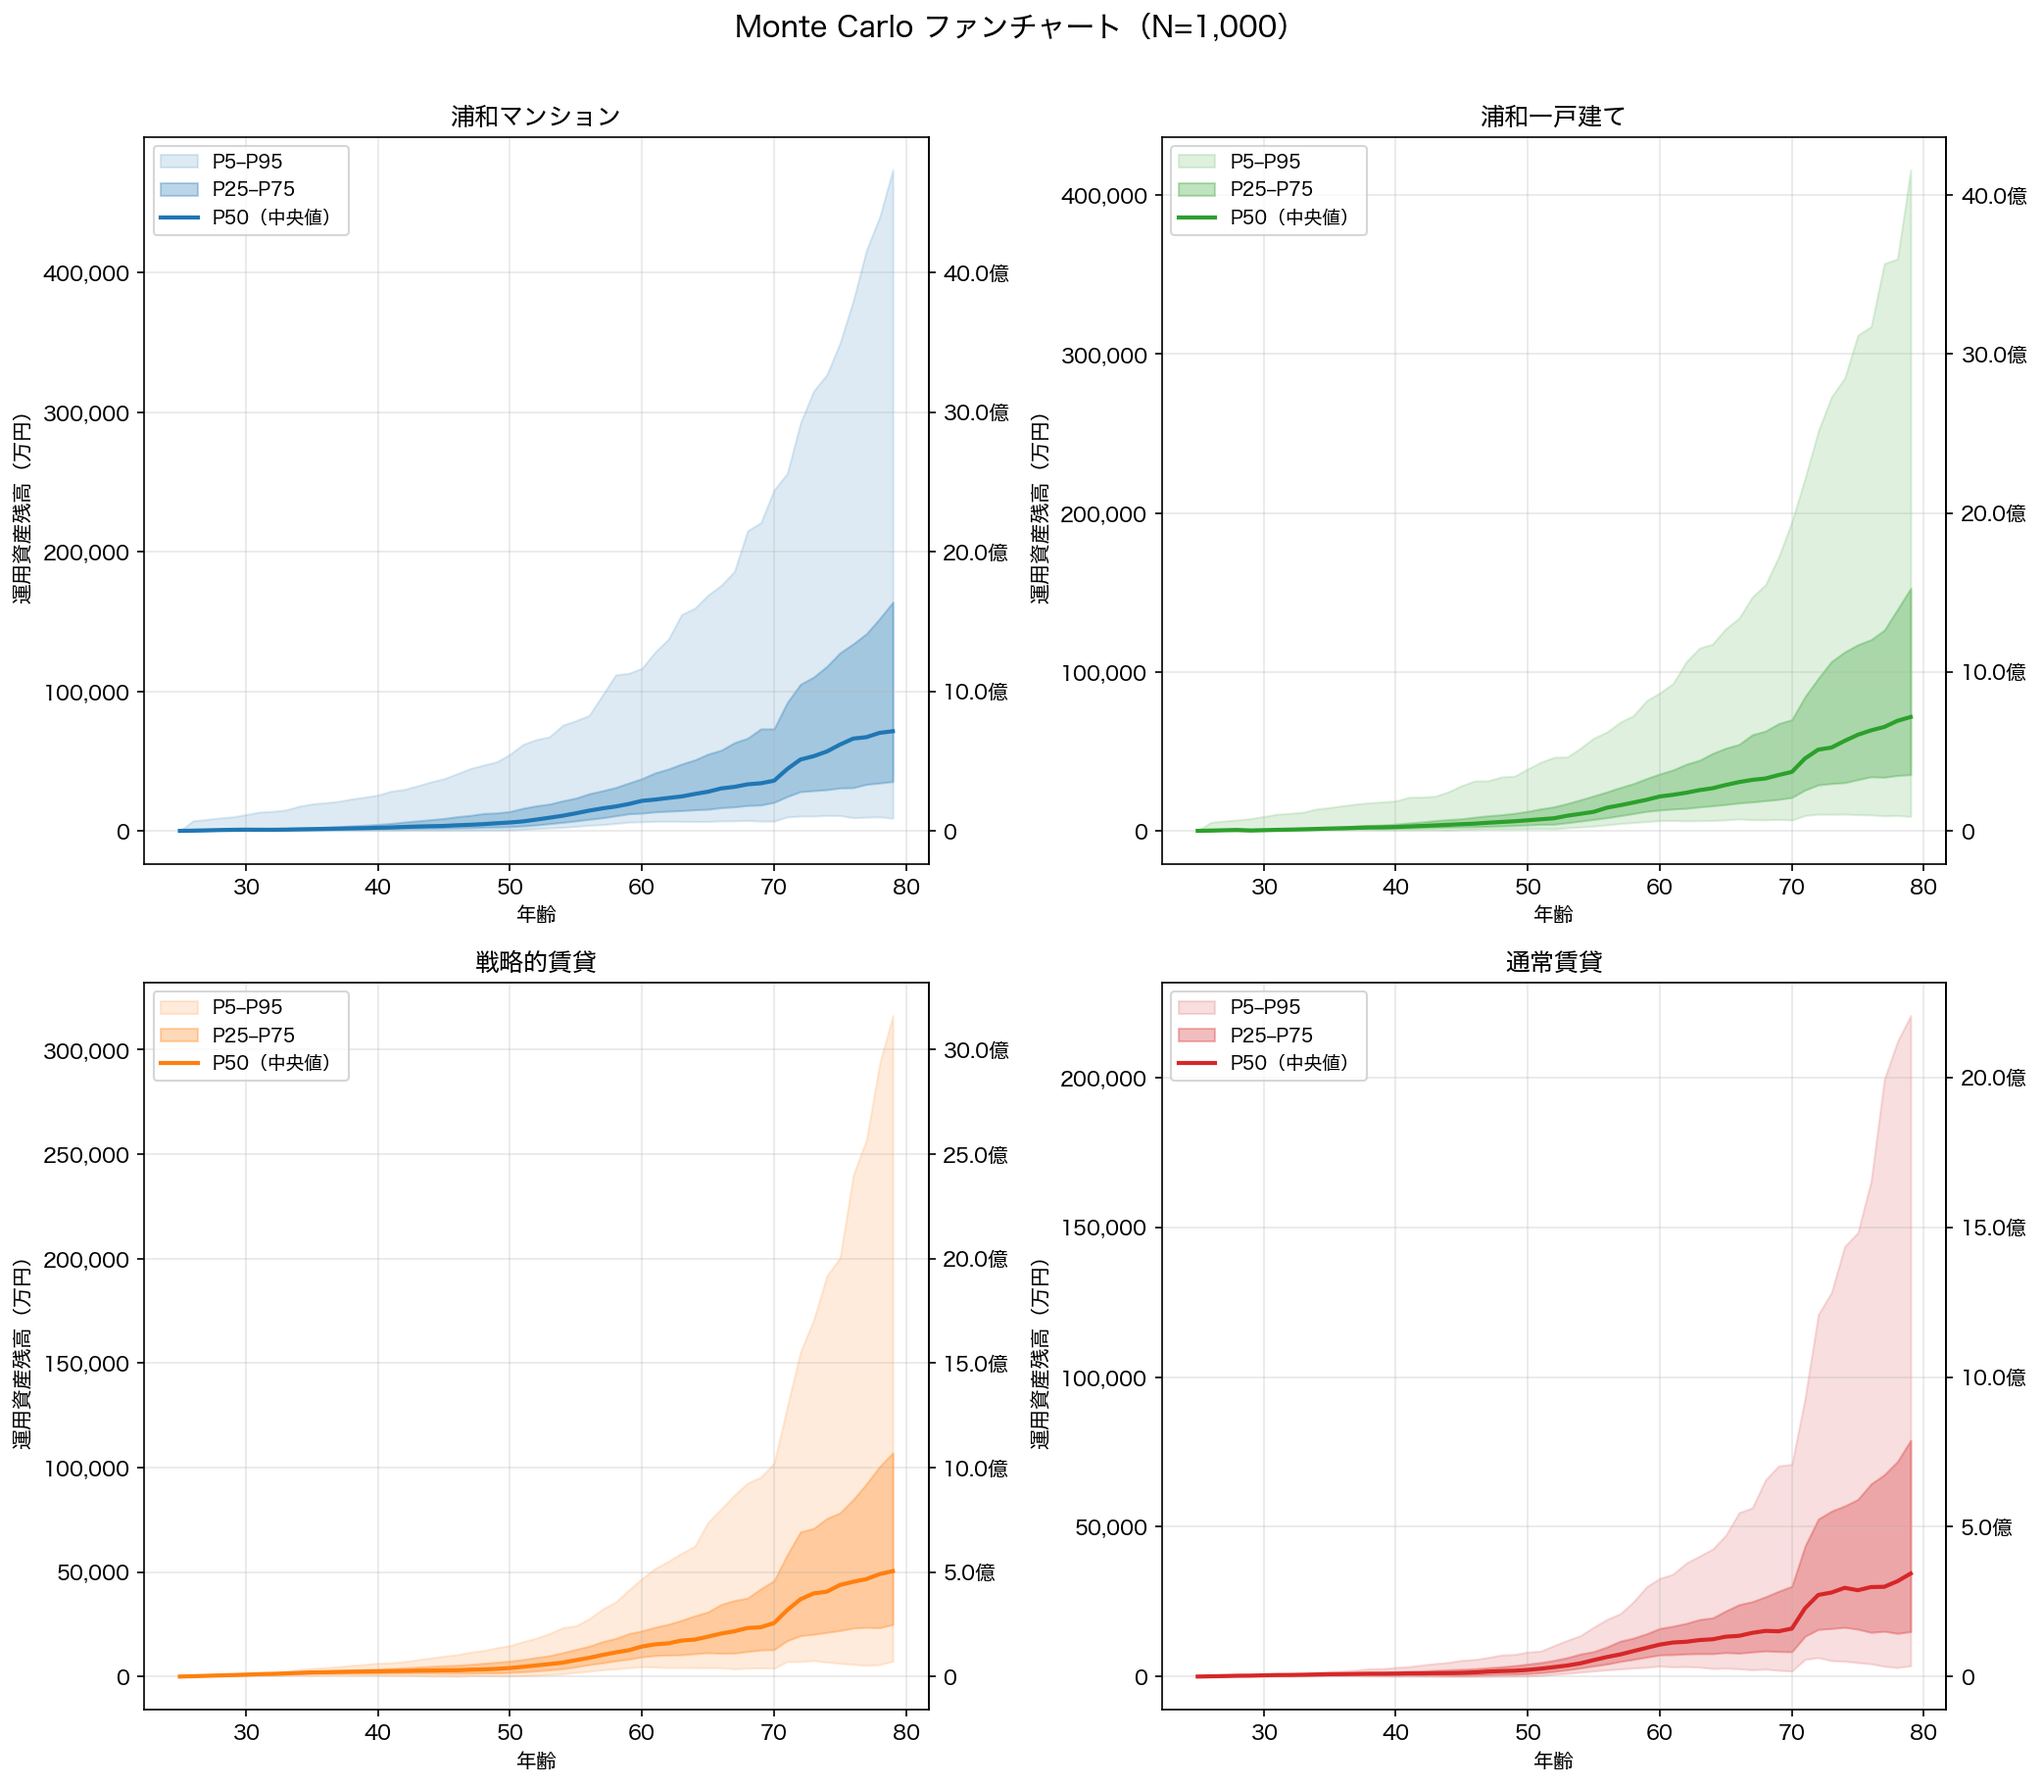
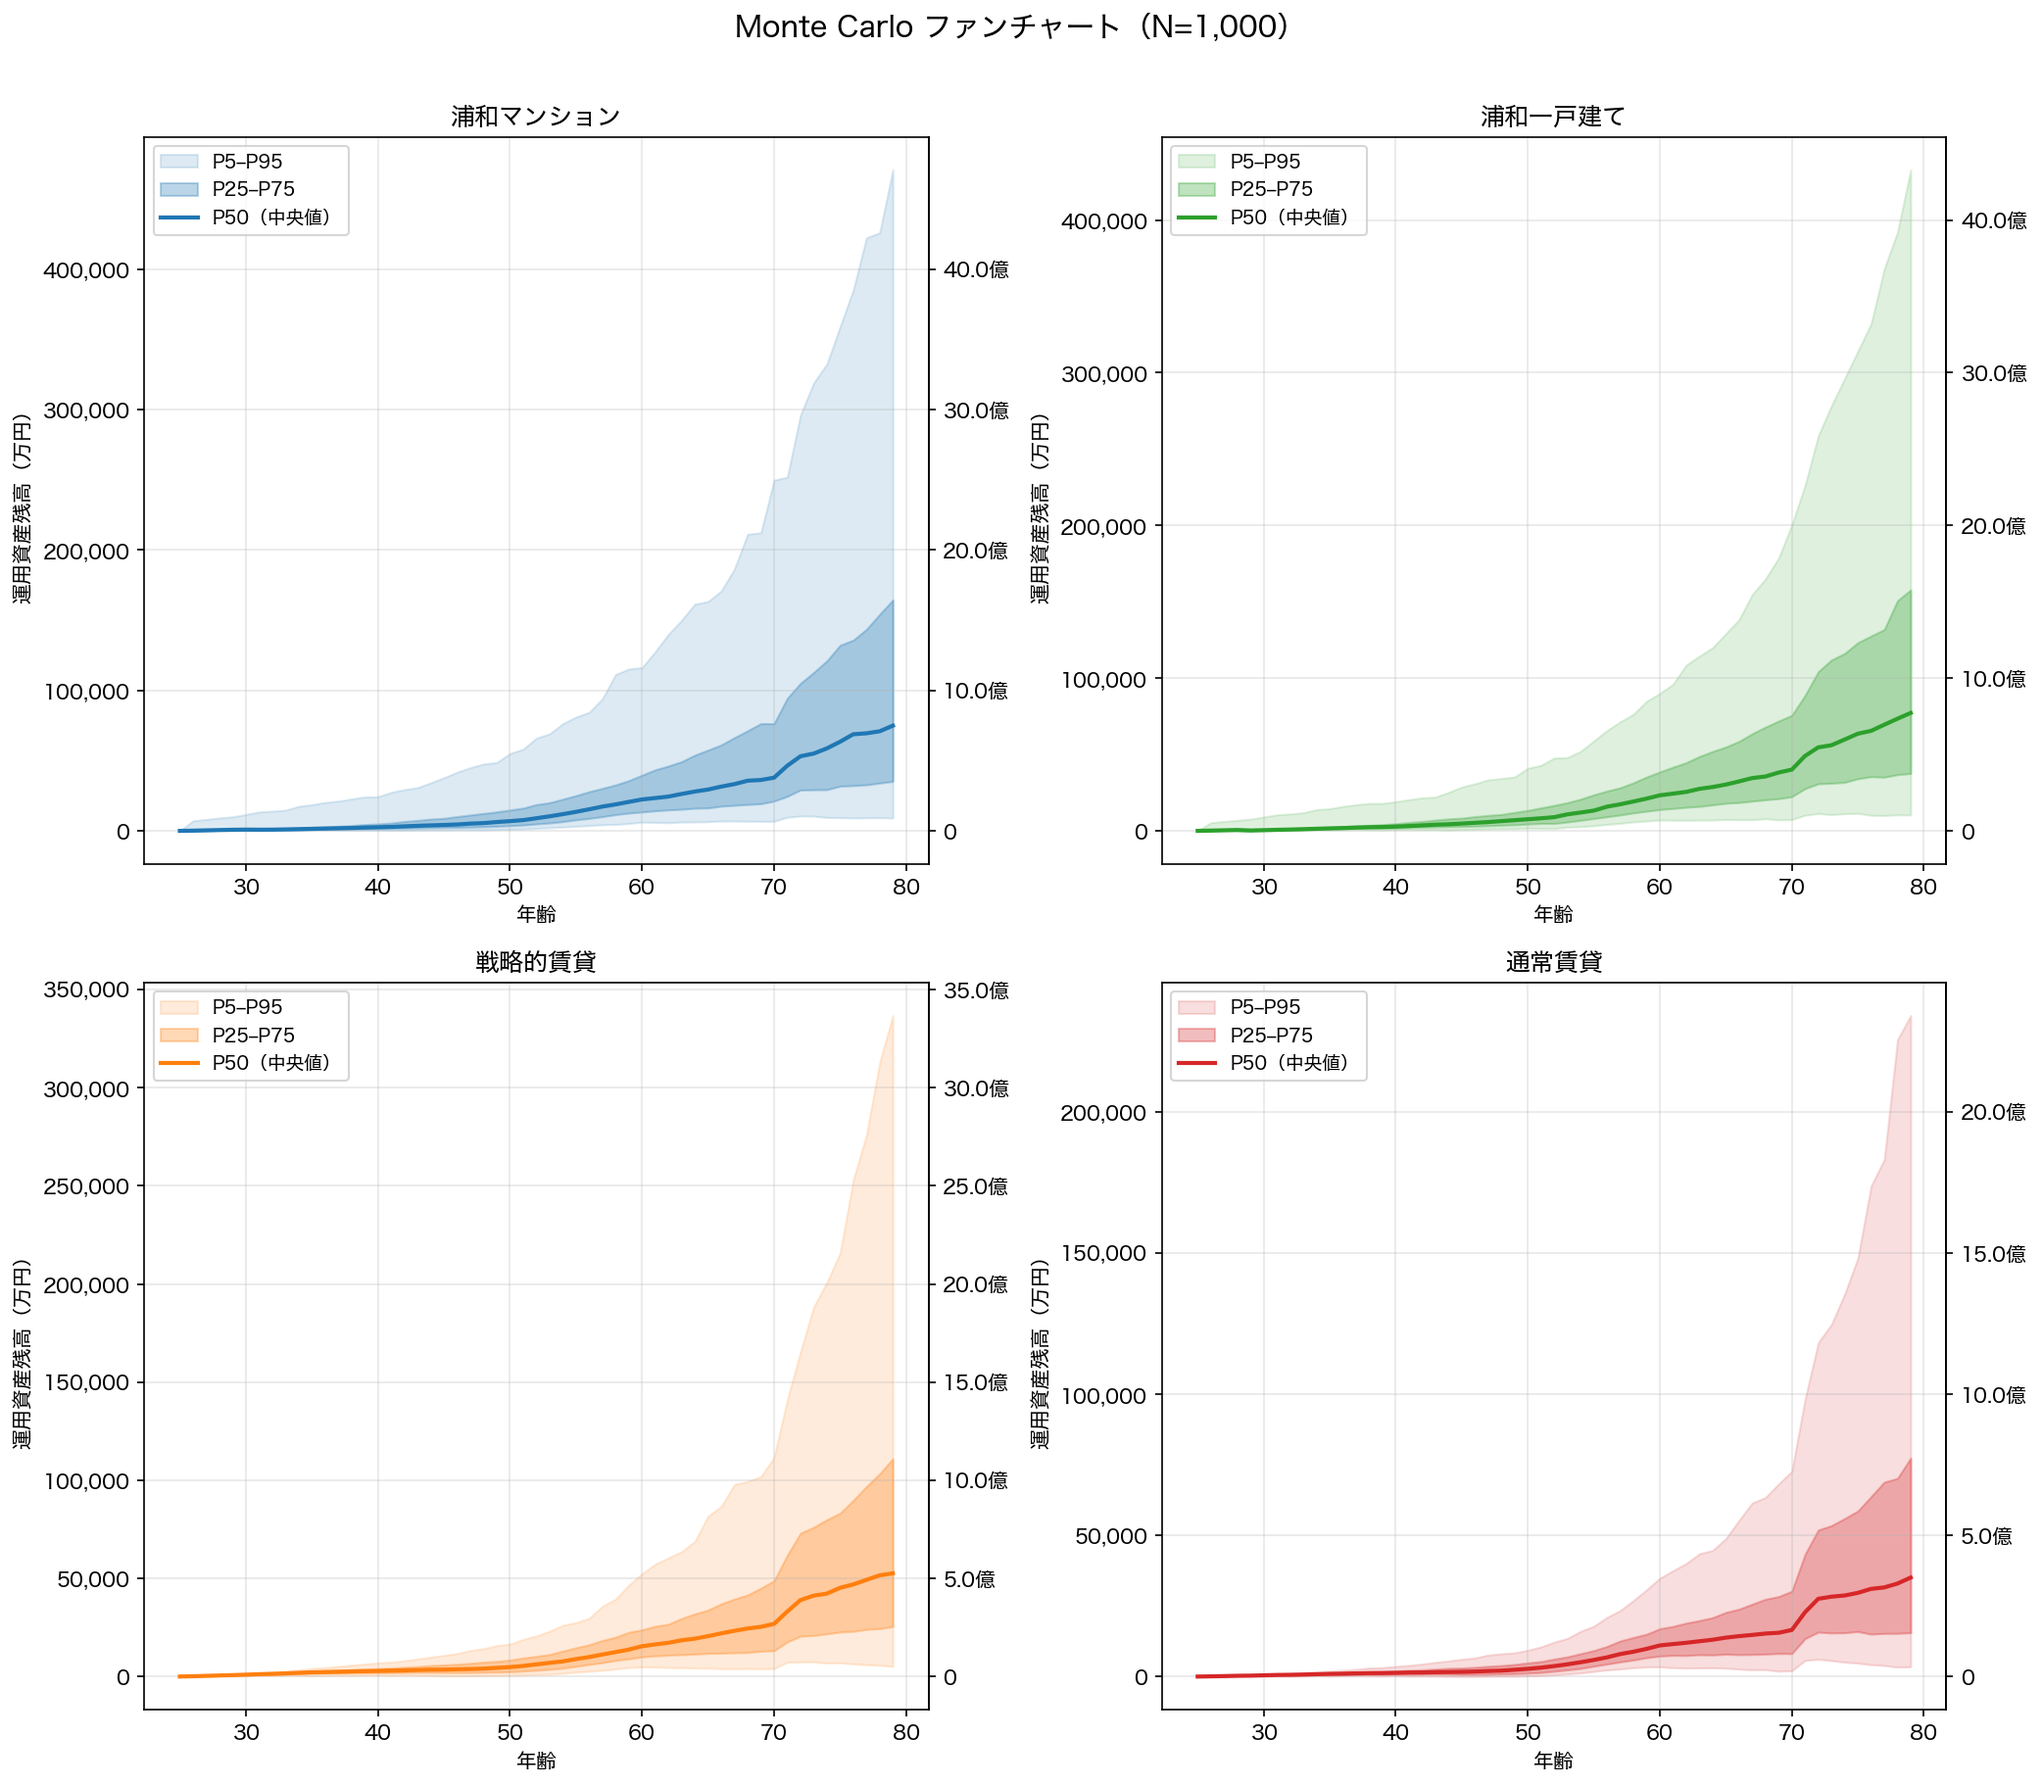
Add child allowance (児童手当) model and fix README outdated values

diff --git a/tests/test_simulation.py b/tests/test_simulation.py
@@ -73,19 +73,19 @@ class TestSnapshotAge37:
 
     def test_mansion(self):
         r = simulate_strategy(UrawaMansion(800), self.params, husband_start_age=37, wife_start_age=37, child_birth_ages=[39])
-        assert r["after_tax_net_assets"] == pytest.approx(41817.863193, abs=0.01)
+        assert r["after_tax_net_assets"] == pytest.approx(43387.448210, abs=0.01)
 
     def test_house(self):
         r = simulate_strategy(UrawaHouse(800), self.params, husband_start_age=37, wife_start_age=37, child_birth_ages=[39])
-        assert r["after_tax_net_assets"] == pytest.approx(48836.261904, abs=0.01)
+        assert r["after_tax_net_assets"] == pytest.approx(50384.390994, abs=0.01)
 
     def test_strategic_rental(self):
         r = simulate_strategy(StrategicRental(800, child_birth_ages=[39], start_age=37), self.params, husband_start_age=37, wife_start_age=37, child_birth_ages=[39])
-        assert r["after_tax_net_assets"] == pytest.approx(47507.167092, abs=0.01)
+        assert r["after_tax_net_assets"] == pytest.approx(49043.730528, abs=0.01)
 
     def test_normal_rental(self):
         r = simulate_strategy(NormalRental(800), self.params, husband_start_age=37, wife_start_age=37, child_birth_ages=[39])
-        assert r["after_tax_net_assets"] == pytest.approx(36861.581071, abs=0.01)
+        assert r["after_tax_net_assets"] == pytest.approx(38459.588921, abs=0.01)
 
 
 class TestSnapshotDetails:
@@ -96,7 +96,7 @@ class TestSnapshotDetails:
         self.r = simulate_strategy(UrawaMansion(800), params, husband_start_age=37, wife_start_age=37, child_birth_ages=[39])
 
     def test_nisa_balance(self):
-        assert self.r["nisa_balance"] == pytest.approx(30964.826084, abs=0.01)
+        assert self.r["nisa_balance"] == pytest.approx(31418.841373, abs=0.01)
 
     def test_land_value(self):
         assert self.r["land_value_80"] == pytest.approx(2613.043089, abs=0.01)
@@ -117,7 +117,7 @@ class TestEdgeAges:
     def test_age_25(self):
         params = SimulationParams(husband_income=47.125, wife_income=25.375)
         r = simulate_strategy(StrategicRental(800, child_birth_ages=[39], start_age=25), params, husband_start_age=25, wife_start_age=25, child_birth_ages=[39])
-        assert r["after_tax_net_assets"] == pytest.approx(243369.583764, abs=0.01)
+        assert r["after_tax_net_assets"] == pytest.approx(244831.565034, abs=0.01)
         assert r["bankrupt_age"] is None
 
     def test_age_45(self):
@@ -127,7 +127,7 @@ class TestEdgeAges:
         params = SimulationParams(husband_income=47.125, wife_income=25.375)
         r = simulate_strategy(StrategicRental(800, child_birth_ages=[39], start_age=45), params, husband_start_age=45, wife_start_age=45, child_birth_ages=[39])
         assert r["bankrupt_age"] is None
-        assert r["after_tax_net_assets"] == pytest.approx(6946.630254, abs=0.01)
+        assert r["after_tax_net_assets"] == pytest.approx(7824.205060, abs=0.01)
 
 
 class TestBankruptcy:
@@ -144,7 +144,7 @@ class TestDisciplineFactor:
         r_full = simulate_strategy(StrategicRental(800, child_birth_ages=[39], start_age=37), params, husband_start_age=37, wife_start_age=37, discipline_factor=1.0, child_birth_ages=[39])
         r_reduced = simulate_strategy(StrategicRental(800, child_birth_ages=[39], start_age=37), params, husband_start_age=37, wife_start_age=37, discipline_factor=0.8, child_birth_ages=[39])
         assert r_full["after_tax_net_assets"] > r_reduced["after_tax_net_assets"]
-        assert r_reduced["after_tax_net_assets"] == pytest.approx(38599.019553, abs=0.01)
+        assert r_reduced["after_tax_net_assets"] == pytest.approx(39865.698292, abs=0.01)
 
 
 class TestChildBirthAges:
@@ -152,7 +152,7 @@ class TestChildBirthAges:
         """child_birth_ages=[38] should produce known snapshot."""
         params = SimulationParams(husband_income=47.125, wife_income=25.375)
         r = simulate_strategy(StrategicRental(800, child_birth_ages=[38], start_age=37), params, husband_start_age=37, wife_start_age=37, child_birth_ages=[38])
-        assert r["after_tax_net_assets"] == pytest.approx(46639.419805, abs=0.01)
+        assert r["after_tax_net_assets"] == pytest.approx(48287.537793, abs=0.01)
 
     def test_no_child_increases_assets(self):
         """No education costs → more investable → higher assets."""

diff --git a/housing_sim_jp/simulation.py b/housing_sim_jp/simulation.py
@@ -31,6 +31,27 @@ TAKEHOME_TO_GROSS = 0.75  # 手取り→額面 概算変換率
 DIVORCE_ASSET_SPLIT_RATIO = 0.5   # 離婚時の財産分与比率
 SINGLE_LIVING_COST_RATIO = 0.7    # 離婚/死別後の生活費比率（1人世帯化）
 
+# 児童手当（2024年改正: 所得制限撤廃・18歳まで延長）
+CHILD_ALLOWANCE_SCHEDULE: tuple[tuple[int, int, float], ...] = (
+    (0, 2, 1.5),   # 0〜2歳: 月1.5万円/人
+    (3, 18, 1.0),   # 3〜18歳: 月1.0万円/人
+)
+
+
+def _calc_child_allowance(age: int, child_birth_ages: list[int]) -> float:
+    """Calculate monthly child allowance (児童手当) based on children's ages.
+
+    Fixed nominal amount (not inflation-adjusted) per statutory schedule.
+    """
+    total = 0.0
+    for birth_age in child_birth_ages:
+        child_age = age - birth_age
+        for lo, hi, amount in CHILD_ALLOWANCE_SCHEDULE:
+            if lo <= child_age <= hi:
+                total += amount
+                break
+    return total
+
 
 def validate_age(start_age: int) -> None:
     """Validate start age range. Raises ValueError if out of bounds."""
@@ -1214,8 +1235,11 @@ def simulate_strategy(
         else:
             event_extra_cost = 0
 
+        child_allowance = _calc_child_allowance(age, child_birth_ages)
+
         investable = (
             monthly_income
+            + child_allowance
             - housing_cost
             - education_cost
             - living_cost
@@ -1227,6 +1251,7 @@ def simulate_strategy(
         )
         investable_running = (
             monthly_income
+            + child_allowance
             - housing_cost
             - education_cost
             - living_cost
@@ -1297,7 +1322,7 @@ def simulate_strategy(
             bankrupt_age = age
             monthly_log.append({
                 "age": age,
-                "income": monthly_income,
+                "income": monthly_income + child_allowance,
                 "housing": housing_cost,
                 "education": education_cost,
                 "living": living_cost,
@@ -1314,7 +1339,7 @@ def simulate_strategy(
             monthly_log.append(
                 {
                     "age": age,
-                    "income": monthly_income,
+                    "income": monthly_income + child_allowance,
                     "husband_income": h_income,
                     "wife_income": w_income,
                     "housing": housing_cost,

diff --git a/tests/test_monte_carlo.py b/tests/test_monte_carlo.py
@@ -26,12 +26,12 @@ class TestDeterministicUnchanged:
     def test_mansion_snapshot(self):
         params = SimulationParams(husband_income=47.125, wife_income=25.375)
         r = simulate_strategy(UrawaMansion(800), params, husband_start_age=37, wife_start_age=37, child_birth_ages=[39])
-        assert r["after_tax_net_assets"] == pytest.approx(41817.863193, abs=0.01)
+        assert r["after_tax_net_assets"] == pytest.approx(43387.448210, abs=0.01)
 
     def test_house_snapshot(self):
         params = SimulationParams(husband_income=47.125, wife_income=25.375)
         r = simulate_strategy(UrawaHouse(800), params, husband_start_age=37, wife_start_age=37, child_birth_ages=[39])
-        assert r["after_tax_net_assets"] == pytest.approx(48836.261904, abs=0.01)
+        assert r["after_tax_net_assets"] == pytest.approx(50384.390994, abs=0.01)
 
 
 class TestLogNormalMean:

diff --git a/tests/test_scenarios.py b/tests/test_scenarios.py
@@ -47,11 +47,11 @@ class TestScenarioSnapshots:
 
     def test_low_growth_mansion(self):
         r = self.results["低成長"][0]
-        assert r["after_tax_net_assets"] == pytest.approx(28654.377102, abs=0.01)
+        assert r["after_tax_net_assets"] == pytest.approx(29788.529473, abs=0.01)
 
     def test_high_growth_strategic_rental(self):
         r = self.results["高成長"][2]
-        assert r["after_tax_net_assets"] == pytest.approx(84319.031225, abs=0.01)
+        assert r["after_tax_net_assets"] == pytest.approx(86855.272408, abs=0.01)
 
 
 class TestDisciplineFactors:
